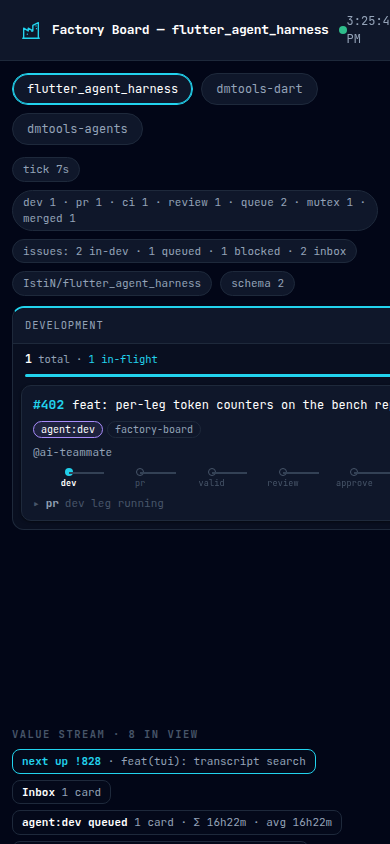
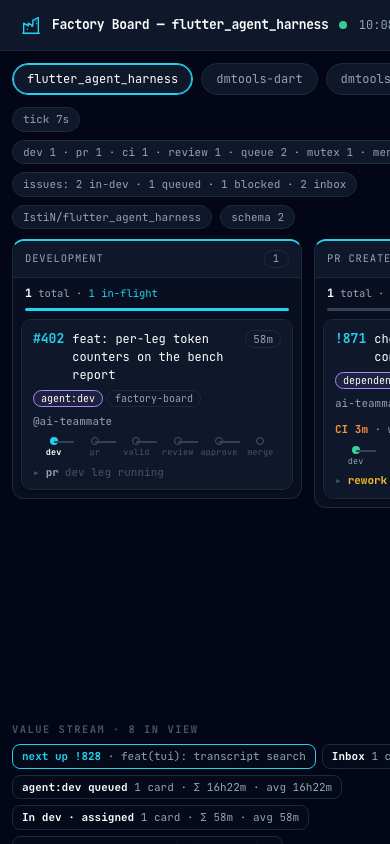
board: pin lane width (min-width:0) + multi-line card titles
Lanes blew past --lane-w (Review 1084px, Approved 1364px, Merged 1602px
at 290px nominal): a flex/grid item's default min-width:auto resolves to
the widest card's nowrap min-content, so one long issue title stretched
the whole column and the strip.

- .lane: min-width 0 pins the flex basis; inner ellipsis/clamp rules own
  the overflow now (verified live: all lanes 290/301px, doc width =
  viewport)
- .title: one-line ellipsis -> 3-line clamp with overflow-wrap:anywhere
  (the drawer already used this pattern) — long titles wrap in place
  instead of driving layout
- .lbl/.meta: overflow-wrap:anywhere for unbreakable tokens (branch
  names, hashes)

diff --git a/site/factory/styles.css b/site/factory/styles.css
@@ -157,6 +157,10 @@ body {
 .lane {
   background: var(--panel); border: 1px solid var(--line);
   border-radius: 12px; flex: 0 0 var(--lane-w, 290px);
+  /* min-width:auto (default) resolves to the widest card's nowrap
+     min-content and blows the lane past --lane-w; 0 pins the width and
+     lets the inner ellipsis/clamp rules handle long content. */
+  min-width: 0;
   border-top: 2px solid var(--accent, var(--line-2));
 }
 .lane-head {
@@ -190,8 +194,12 @@ body {
 .pr { color: var(--accent); font-weight: 700; white-space: nowrap; }
 .pos { color: var(--muted); font-size: 11px; }
 .title {
-  font-size: 12px; overflow: hidden; text-overflow: ellipsis; white-space: nowrap;
-  flex: 1 1 auto; min-width: 0;
+  font-size: 12px; flex: 1 1 auto; min-width: 0;
+  /* multi-line, not a one-line ellipsis: long issue titles must wrap
+     inside the fixed lane (3-line clamp keeps the cards compact) */
+  white-space: normal;
+  display: -webkit-box; -webkit-box-orient: vertical; -webkit-line-clamp: 3;
+  overflow-wrap: anywhere;
 }
 .age {
   color: var(--muted); font-size: 11px; white-space: nowrap; flex: none;
@@ -202,7 +210,7 @@ body {
 .lbl {
   font-size: 10px; color: var(--muted); border: 1px solid var(--line);
   border-radius: 999px; padding: 0 7px; max-width: 100%;
-  overflow: hidden; text-overflow: ellipsis;
+  overflow: hidden; text-overflow: ellipsis; overflow-wrap: anywhere;
 }
 .lbl.hot {
   color: var(--text); border-color: var(--st-rev);
@@ -211,6 +219,7 @@ body {
 .meta {
   margin-top: 6px; display: flex; gap: 10px; align-items: center;
   color: var(--muted); font-size: 11px; flex-wrap: wrap;
+  overflow-wrap: anywhere;
 }
 .checks { display: flex; gap: 6px; align-items: center; }
 .dot { width: 8px; height: 8px; border-radius: 50%; display: inline-block; flex: none; }
